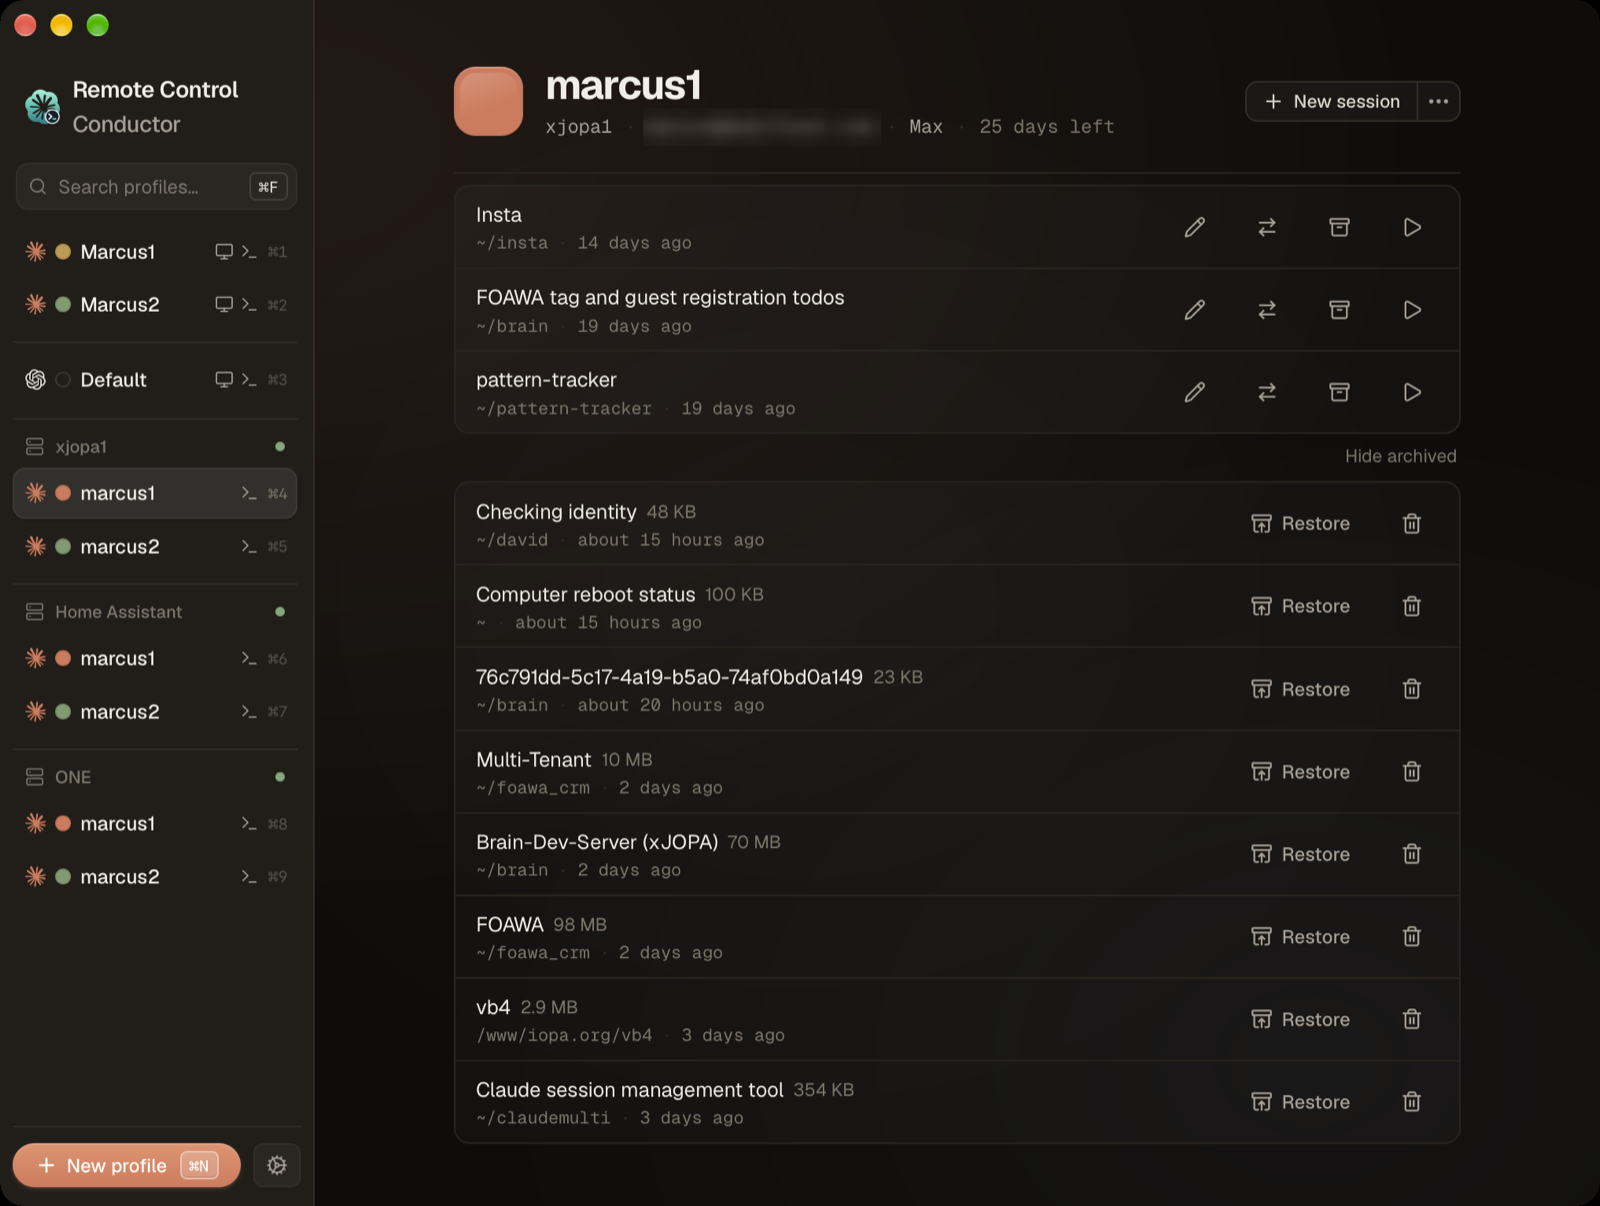
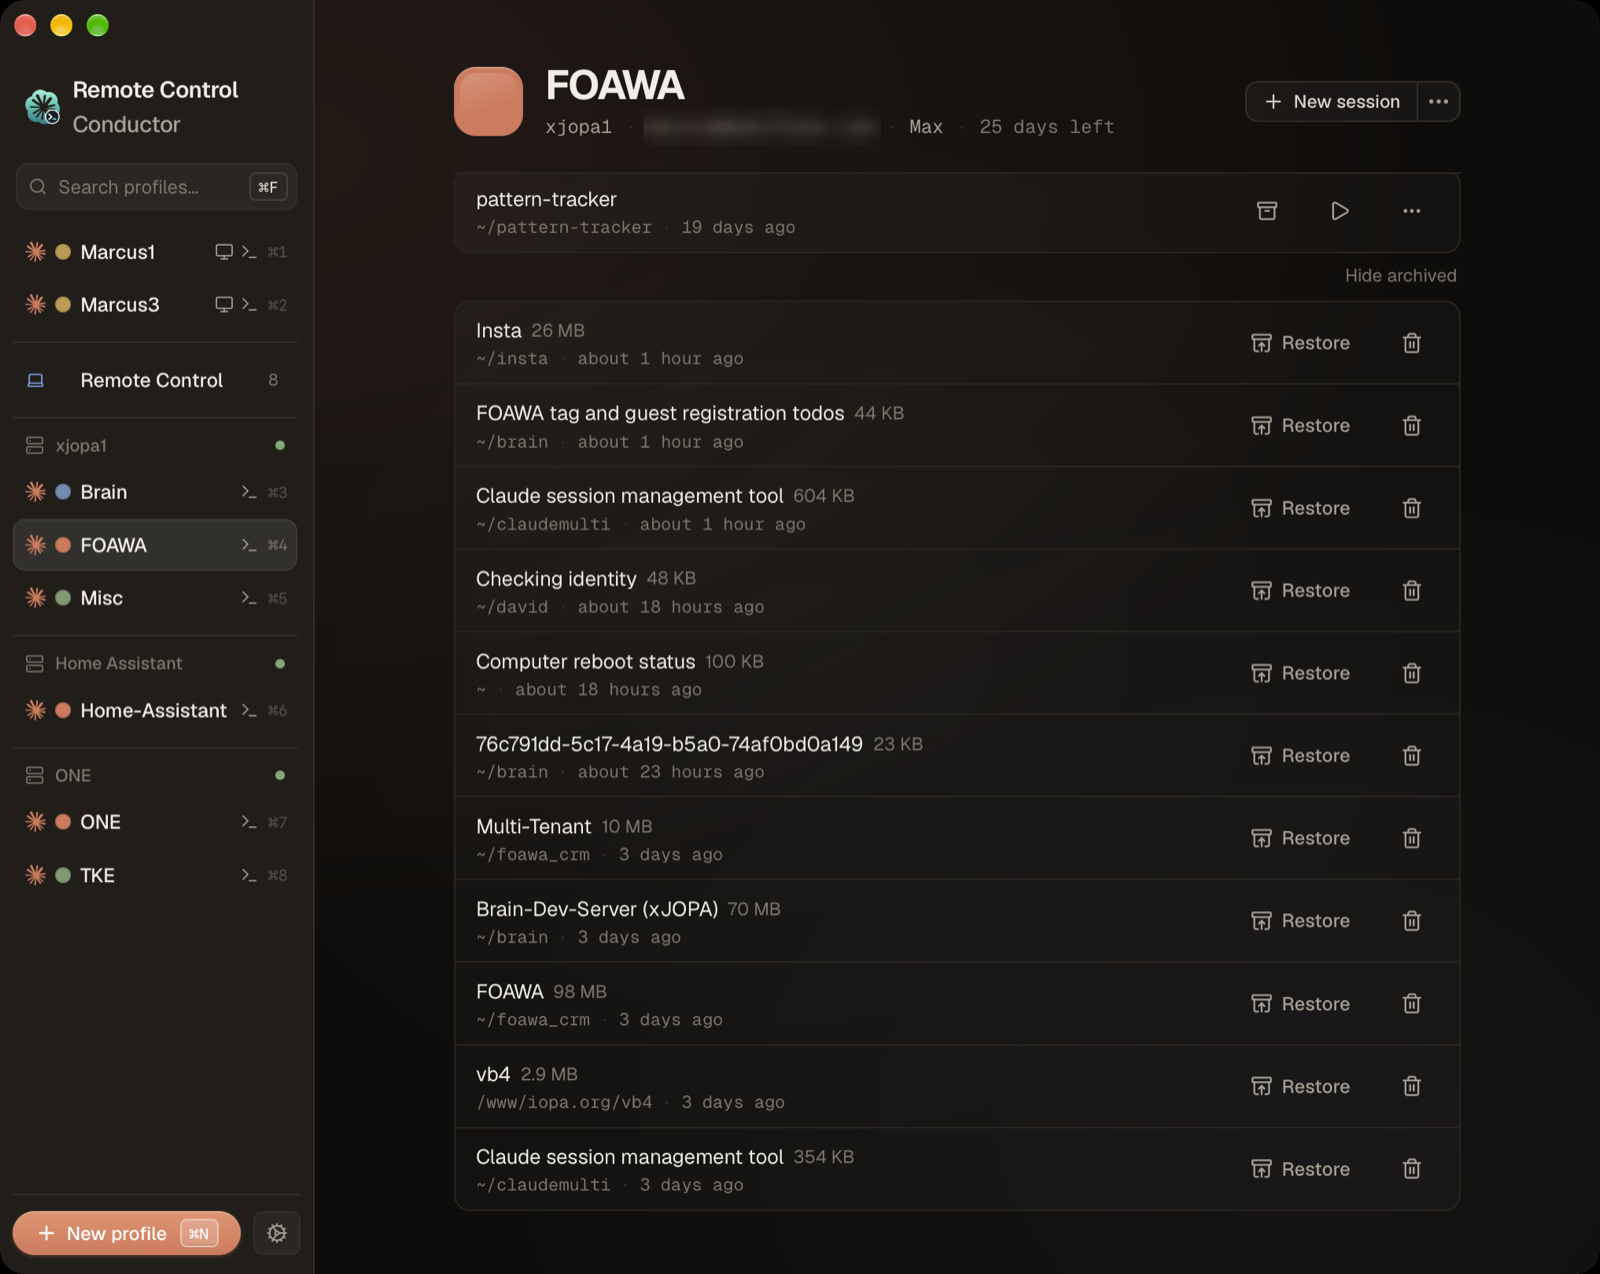
docs: screenshots of 0.5.1, and the Remote Control page

diff --git a/README.md b/README.md
@@ -75,13 +75,16 @@ Sessions come back by themselves after the server reboots.
 One click opens a running session in the Claude app signed in to the same account on your Mac. It's
 already in the Claude app on your phone. Need the terminal after all? **Open in Terminal** attaches over ssh.
 
-Each desktop profile also lists the Remote Control sessions running on its account, on every host, so you
-can see what Claude (Marcus2) can open and jump straight in. It follows the account: switch a project's
-account, and its sessions move to the other desktop profile's list.
+**Remote Control** in the sidebar lists every session connected on your servers, by the account it runs
+on, each a click from opening. Each desktop profile lists the ones on its own account too, and opens them
+in itself. Both follow the account: switch a project's account, and its sessions move with it.
 
-<p align="center">
-  <img alt="A desktop profile with the Remote Control sessions running on its account" src="docs/screenshots/desktop-remote-control.png" width="720">
-</p>
+<table>
+  <tr>
+    <td width="50%"><img alt="The Remote Control page: every connected session on your servers, by account" src="docs/screenshots/remote-control-overview.png"><br><sub>Every connected session on your servers, by account.</sub></td>
+    <td width="50%"><img alt="A desktop profile with the Remote Control sessions running on its account" src="docs/screenshots/desktop-remote-control.png"><br><sub>A desktop profile, with the sessions on its account.</sub></td>
+  </tr>
+</table>
 
 ### 🔄 Switch accounts, not sessions
 Hit a usage limit? **Switch account…** on the project: its running sessions stop, it signs out, and you
@@ -118,7 +121,7 @@ The app spots those sessions and **flags them in amber**. **Restart all** brings
 back in the same conversation and with Remote Control on.
 
 <p align="center">
-  <img alt="Running sessions, two flagged Restart to update, and Restart all · 2 to update" src="docs/screenshots/remote-update-alert.png" width="720">
+  <img alt="Two running sessions flagged Restart to update, and Restart all · 2 to update" src="docs/screenshots/remote-update-alert.png" width="720">
 </p>
 
 ### 🖥 Several servers, several accounts
